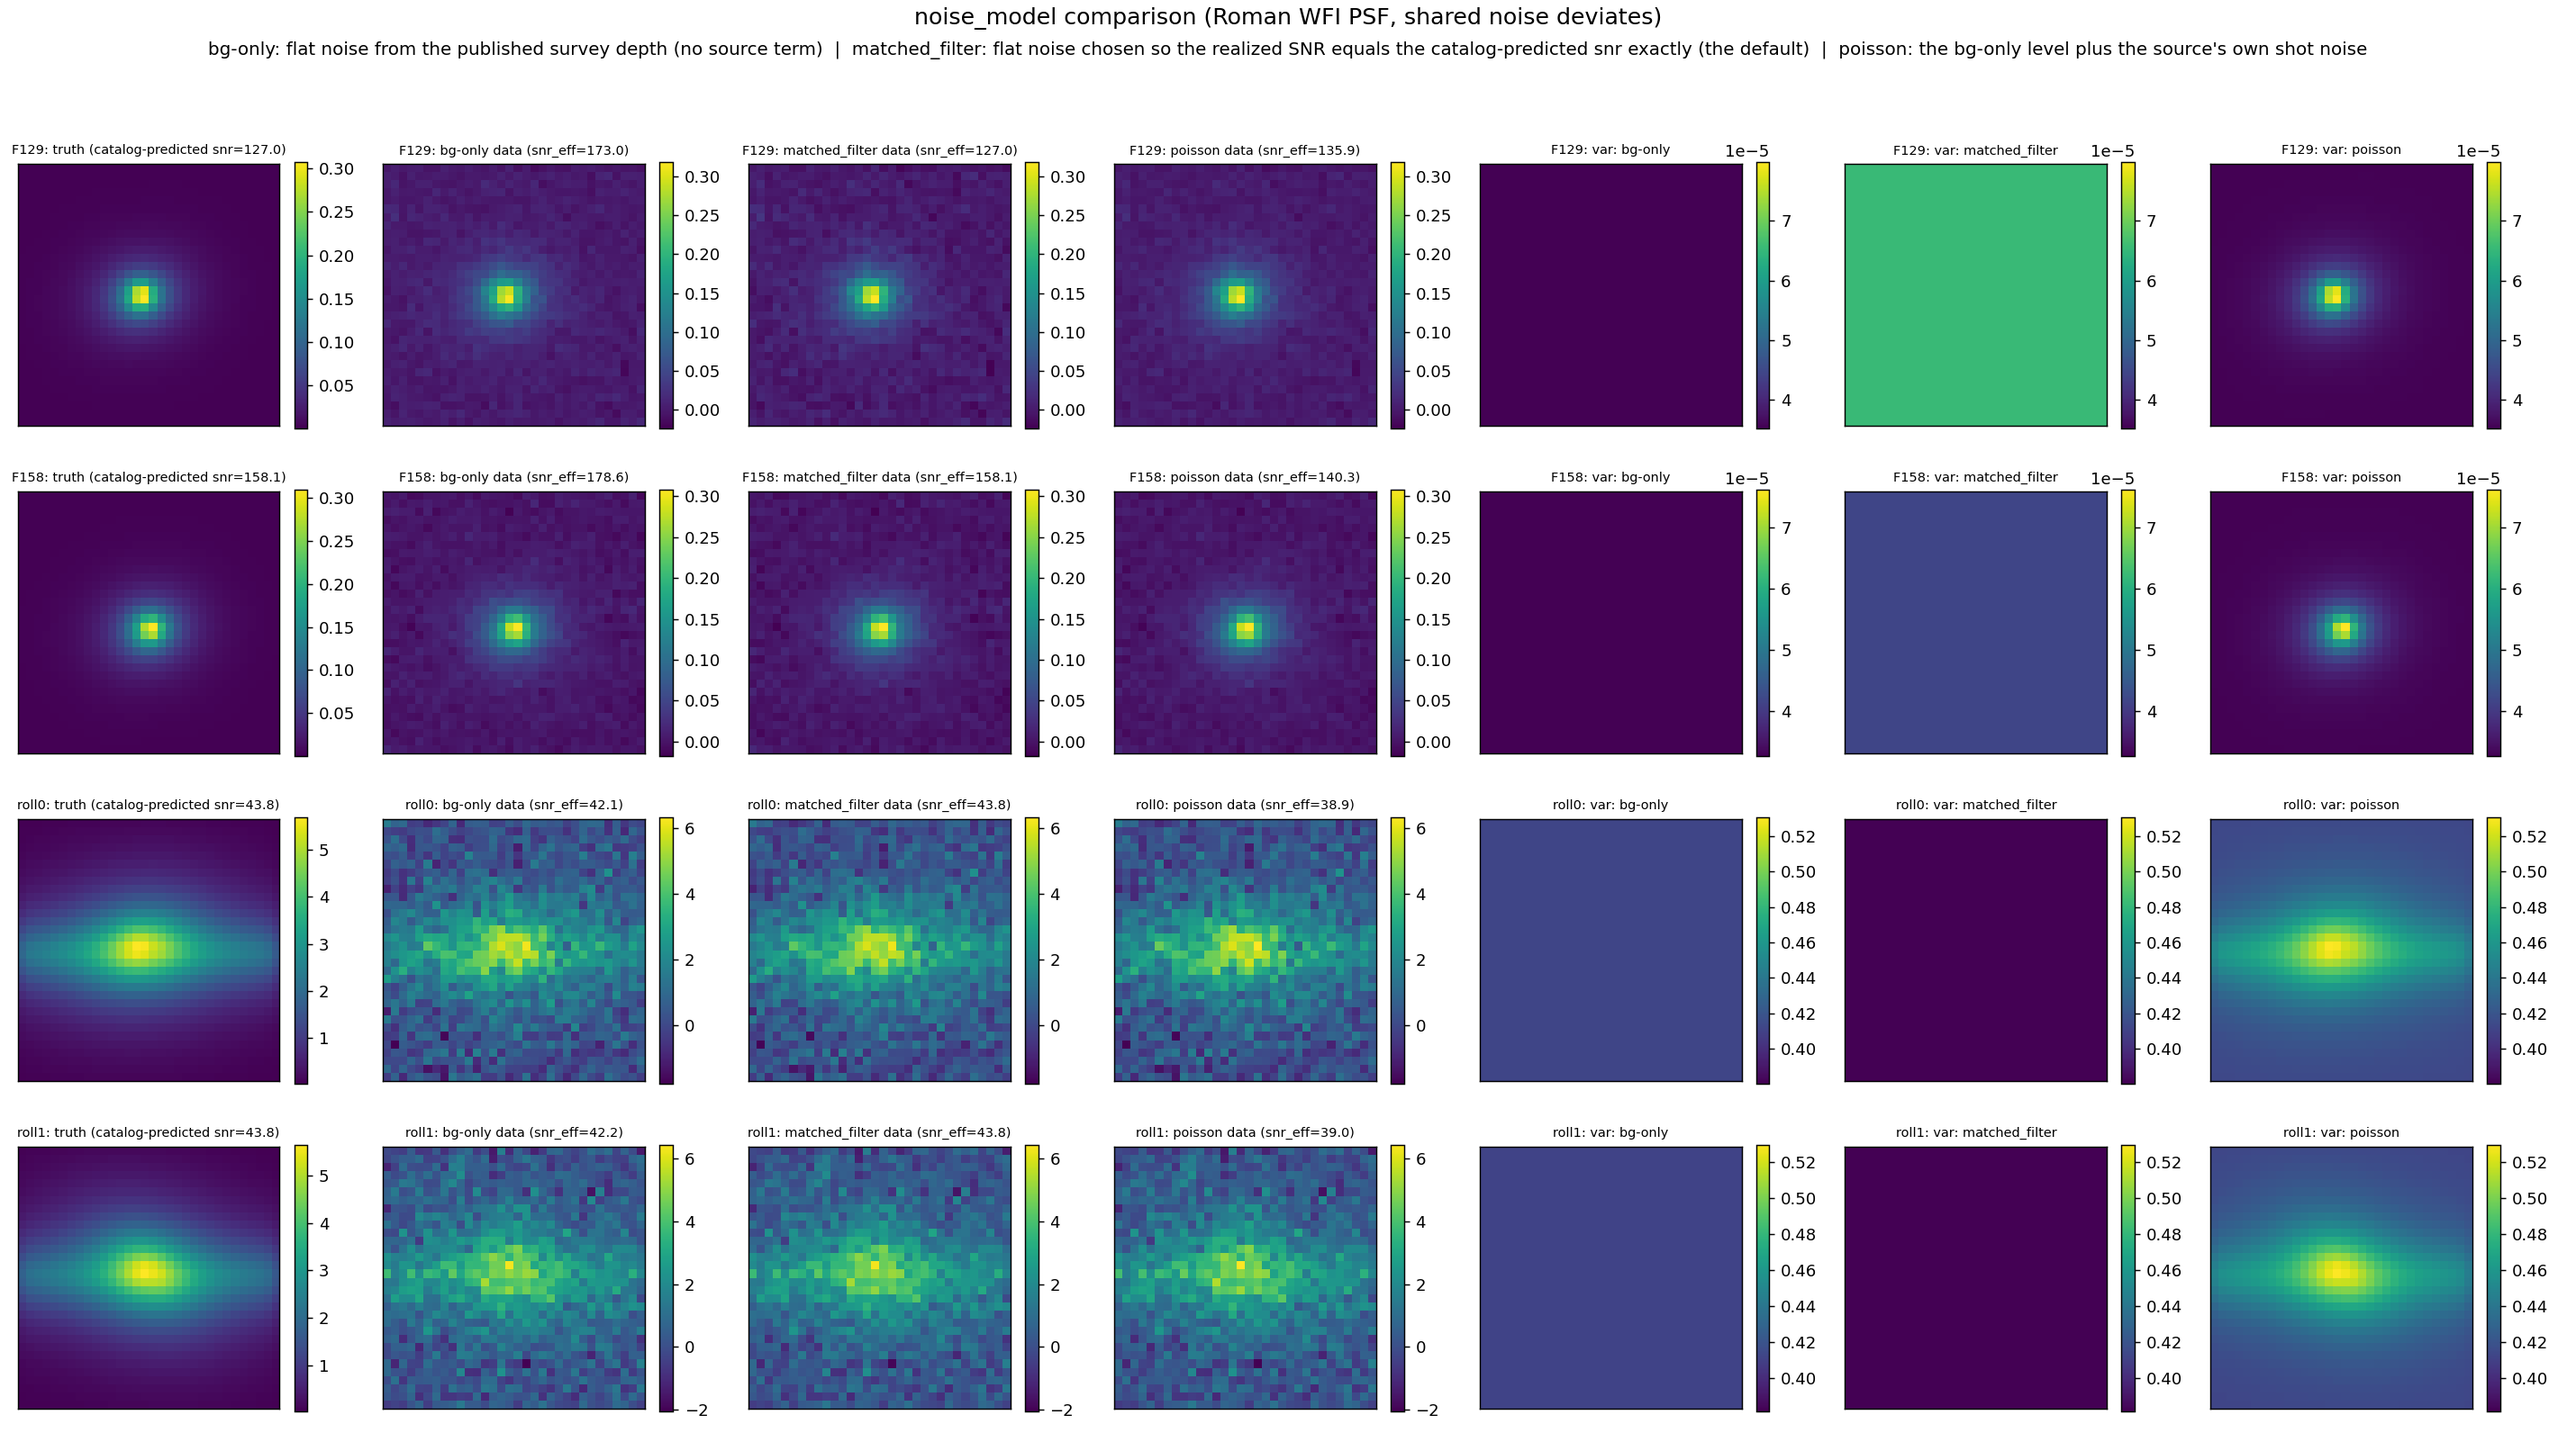
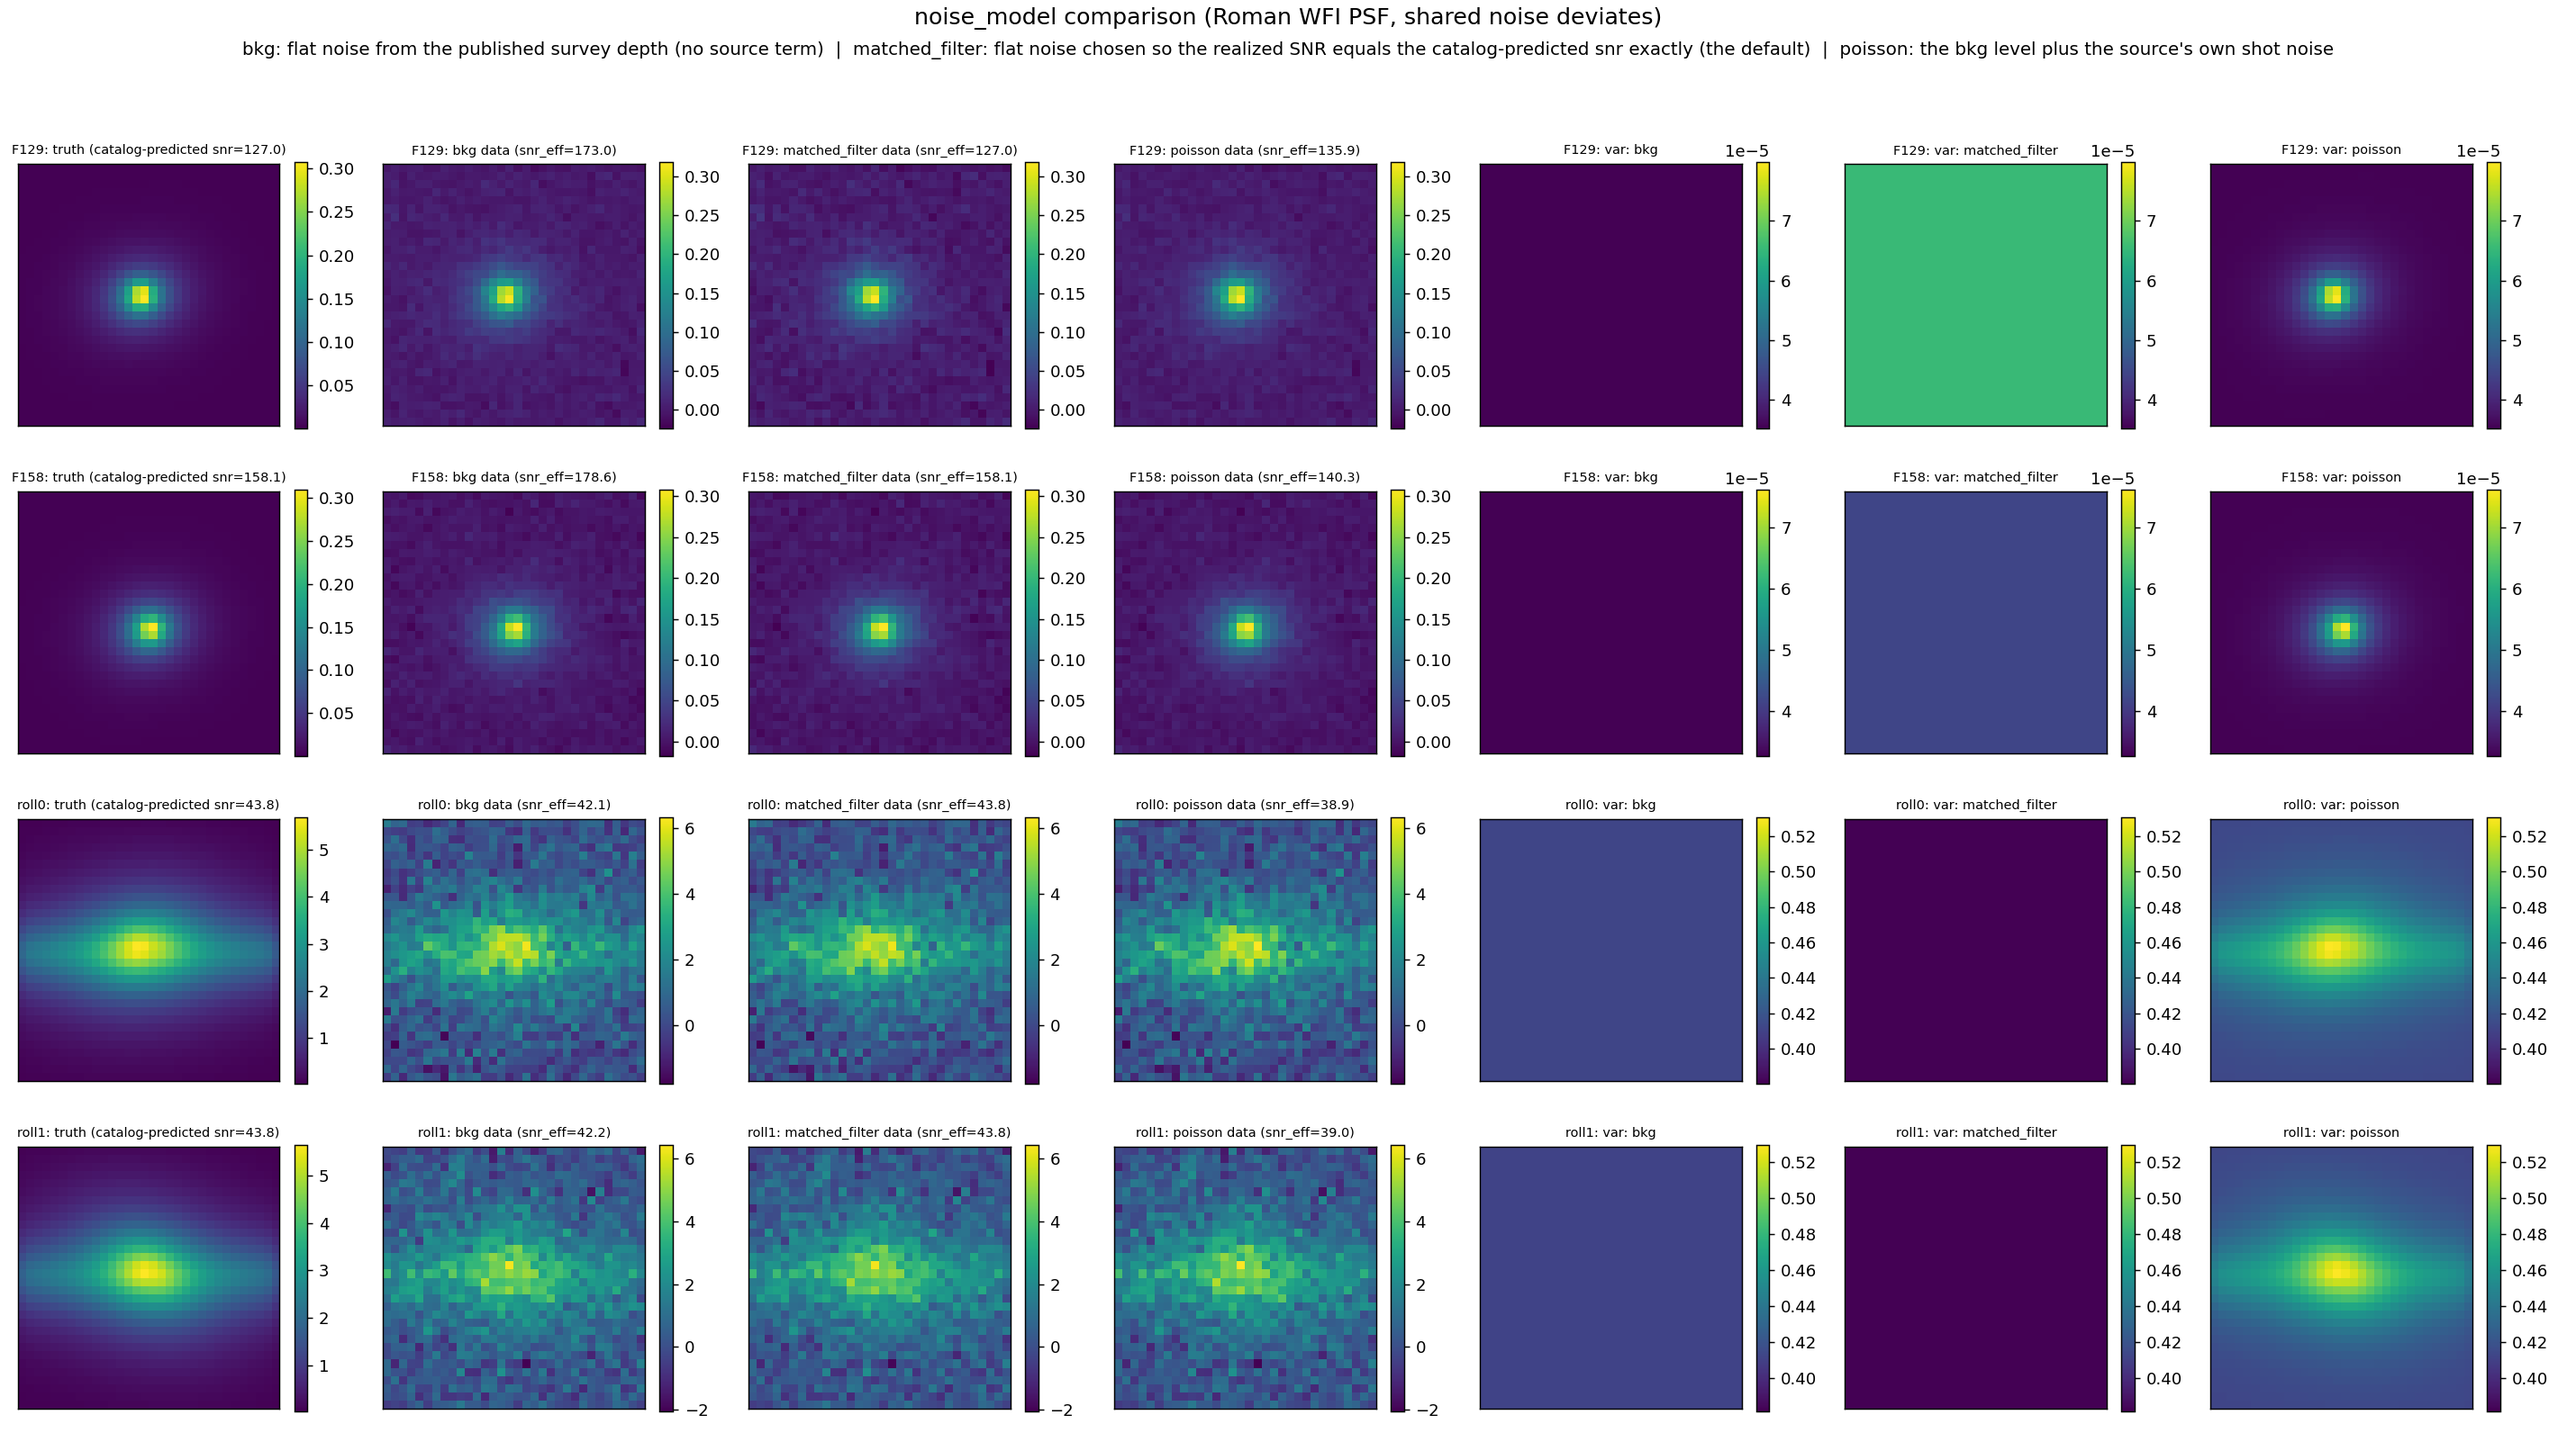
ensemble: rename the bg-only pathway to bkg in figures and tutorial

diff --git a/tests/test_ensemble_noise.py b/tests/test_ensemble_noise.py
@@ -361,7 +361,7 @@ class TestNoiseModelComparisonFigure:
 
     One bright-ish galaxy (fluxes scaled up from the fake-catalog bank so
     the structure is visible over the noise): per channel (two bands + two
-    grism rolls), the noiseless truth, a background-only draw, the
+    grism rolls), the noiseless truth, a bkg (background-only) draw, the
     matched_filter mock, the poisson mock, and all three variance maps on
     one shared color scale. Same noise deviates in every arm, so the
     panels differ only by the noise amplitude and structure; each noisy
@@ -523,7 +523,7 @@ class TestNoiseModelComparisonFigure:
                 (truth_img, f'truth (catalog-predicted snr={catalog_snr:.1f})', {}),
                 (
                     bg_only,
-                    f'bg-only data (snr_eff={eff_bg:.1f})',
+                    f'bkg data (snr_eff={eff_bg:.1f})',
                     {'vmin': dlo, 'vmax': dhi},
                 ),
                 (
@@ -536,7 +536,7 @@ class TestNoiseModelComparisonFigure:
                     f'poisson data (snr_eff={eff_p:.1f})',
                     {'vmin': dlo, 'vmax': dhi},
                 ),
-                (var_bg, 'var: bg-only', {'vmin': vlo, 'vmax': vhi, 'cmap': 'viridis'}),
+                (var_bg, 'var: bkg', {'vmin': vlo, 'vmax': vhi, 'cmap': 'viridis'}),
                 (
                     var_m,
                     'var: matched_filter',
@@ -560,10 +560,10 @@ class TestNoiseModelComparisonFigure:
         fig.text(
             0.5,
             0.962,
-            'bg-only: flat noise from the published survey depth (no source '
+            'bkg: flat noise from the published survey depth (no source '
             'term)  |  matched_filter: flat noise chosen so the realized SNR '
             'equals the catalog-predicted snr exactly (the default)  |  '
-            'poisson: the bg-only level plus the source\'s own shot noise',
+            'poisson: the bkg level plus the source\'s own shot noise',
             ha='center',
             fontsize=11,
         )
@@ -775,9 +775,7 @@ class TestShotNoiseStatistics:
                 lw=1.5,
                 label='poisson: sigma_bg^2 + I/g',
             )
-            ax.axhline(
-                sigma_bg**2, color='tab:orange', ls='--', lw=1.2, label='bg-only'
-            )
+            ax.axhline(sigma_bg**2, color='tab:orange', ls='--', lw=1.2, label='bkg')
             ax.axhline(
                 sigma_mf**2, color='tab:green', ls=':', lw=1.2, label='matched_filter'
             )
@@ -795,7 +793,7 @@ class TestShotNoiseStatistics:
             ax.hist(z_bg, bins=60, density=True, alpha=0.6, label='brightest decile')
             zs = np.linspace(z_bg.min(), z_bg.max(), 300)
             norm = np.exp(-0.5 * zs**2) / np.sqrt(2 * np.pi)
-            ax.plot(zs, norm, 'k--', lw=1.2, label='N(0,1) (bg-only)')
+            ax.plot(zs, norm, 'k--', lw=1.2, label='N(0,1) (bkg)')
             ax.plot(
                 zs,
                 np.exp(-0.5 * (zs / width) ** 2) / (width * np.sqrt(2 * np.pi)),

diff --git a/tests/test_noise_calibration.py b/tests/test_noise_calibration.py
@@ -189,7 +189,7 @@ def test_velocity_obs_chi2(scene):
 
 def _shot_noise_variance_map(clean):
     """Physical-style variance map with both terms mattering: background at
-    the bg-only matched-filter SNR ~50 level, shot noise scaled so the peak
+    the bkg-only matched-filter SNR ~50 level, shot noise scaled so the peak
     pixel's Poisson variance roughly matches the background variance."""
     from kl_pipe.noise import physical_variance_map
 

diff --git a/docs/tutorials/roman_reference.md b/docs/tutorials/roman_reference.md
@@ -270,10 +270,10 @@ There are three noise pathways, and the names below match the ensemble's
 `noise_model` knob and its comparison diagnostic
 (`tests/test_ensemble_noise.py::TestNoiseModelComparisonFigure`):
 
-- **bg-only** -- a flat per-pixel background solved from the published survey
+- **bkg** -- a flat per-pixel background solved from the published survey
   depth; no source term. The realized SNR is whatever the survey delivers
   for your galaxy: you measure it, you do not choose it.
-- **poisson** -- the bg-only level plus the source's own shot noise
+- **poisson** -- the bkg level plus the source's own shot noise
   (per-pixel variance map). The most physical of the three.
 - **matched_filter** -- you declare the SNR and a flat noise level is derived
   from the rendered template so the declared SNR is realized *exactly*. No
@@ -297,7 +297,7 @@ obs_render = build_image_obs(ip, psf=psf, int_model=disk)
 clean_ujy = np.asarray(disk.render_image(theta, obs=obs_render))  # uJy/pixel
 ```
 
-**Pathway 1, bg-only: a flat background from the published depth.** The
+**Pathway 1, bkg: a flat background from the published depth.** The
 background level is solved from the published HLWAS F129 depth (26.4 AB,
 5-sigma point source): a point source at that flux, drawn through the same
 PSF, must come out at exactly 5-sigma, so `sigma_bg = f_lim * ||K||_2 / 5`
@@ -313,11 +313,11 @@ sigma_bg = roman.band_sigma_bg_ujy('F129', float(np.sqrt((kernel**2).sum())))
 
 var_bg = np.full_like(clean_ujy, sigma_bg**2)
 noisy_bg = add_map_noise(clean_ujy, var_bg, seed=7)
-snr_bg_only = matched_filter_snr(clean_ujy, var_bg)
-print(f'bg-only realized SNR = {snr_bg_only:.1f}')
+snr_bkg = matched_filter_snr(clean_ujy, var_bg)
+print(f'bkg realized SNR = {snr_bkg:.1f}')
 ```
 
-**Pathway 2, poisson: bg-only plus the source's own shot noise.** The
+**Pathway 2, poisson: bkg plus the source's own shot noise.** The
 galaxy's photons add Poisson variance on top of the flat background,
 converted through the mission zeropoint (`ELECTRONS_PER_UJY`, zeropoint x
 exposure time; the detector e-/ADU gain never enters). The draw is the
@@ -332,7 +332,7 @@ obs_physical = build_image_obs(ip, psf=psf, int_model=disk,
                                data=jnp.asarray(noisy), variance=jnp.asarray(var_map),
                                flux_unit='uJy (band-averaged f_nu)')
 snr_realized = matched_filter_snr(clean_ujy, var_map)
-print(f'realized SNR = {snr_realized:.1f} (background alone: {snr_bg_only:.1f}; '
+print(f'realized SNR = {snr_realized:.1f} (background alone: {snr_bkg:.1f}; '
       f'the difference is this galaxy\'s shot noise)')
 ```
 
@@ -424,7 +424,7 @@ print(f'realized per-pass line SNR = {snr_line:.1f} '
 All of these observations run through `InferenceTask` identically --
 per-pixel variance maps are supported everywhere. In the ensemble machinery
 the pathways are the `noise_model: matched_filter | poisson` knob on the
-observation config (bg-only is the poisson pathway without its shot term,
+observation config (bkg is the poisson pathway without its shot term,
 shown in the comparison diagnostic), which automates the grism reference
 render above and records the realized `snr_effective` per channel for
 every fit.
